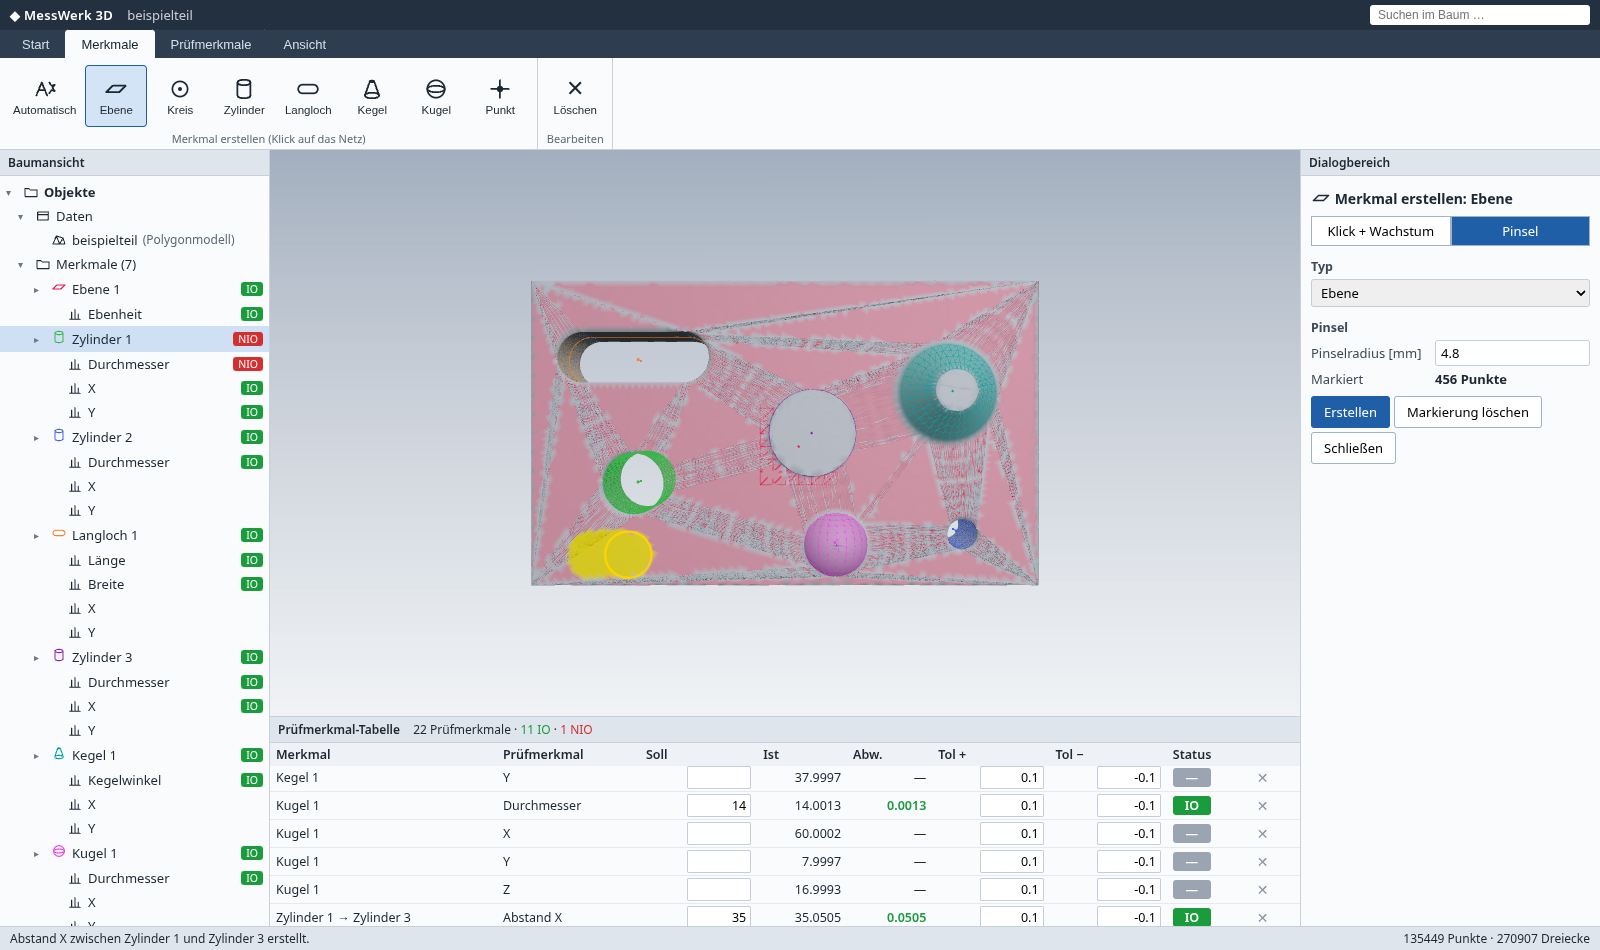
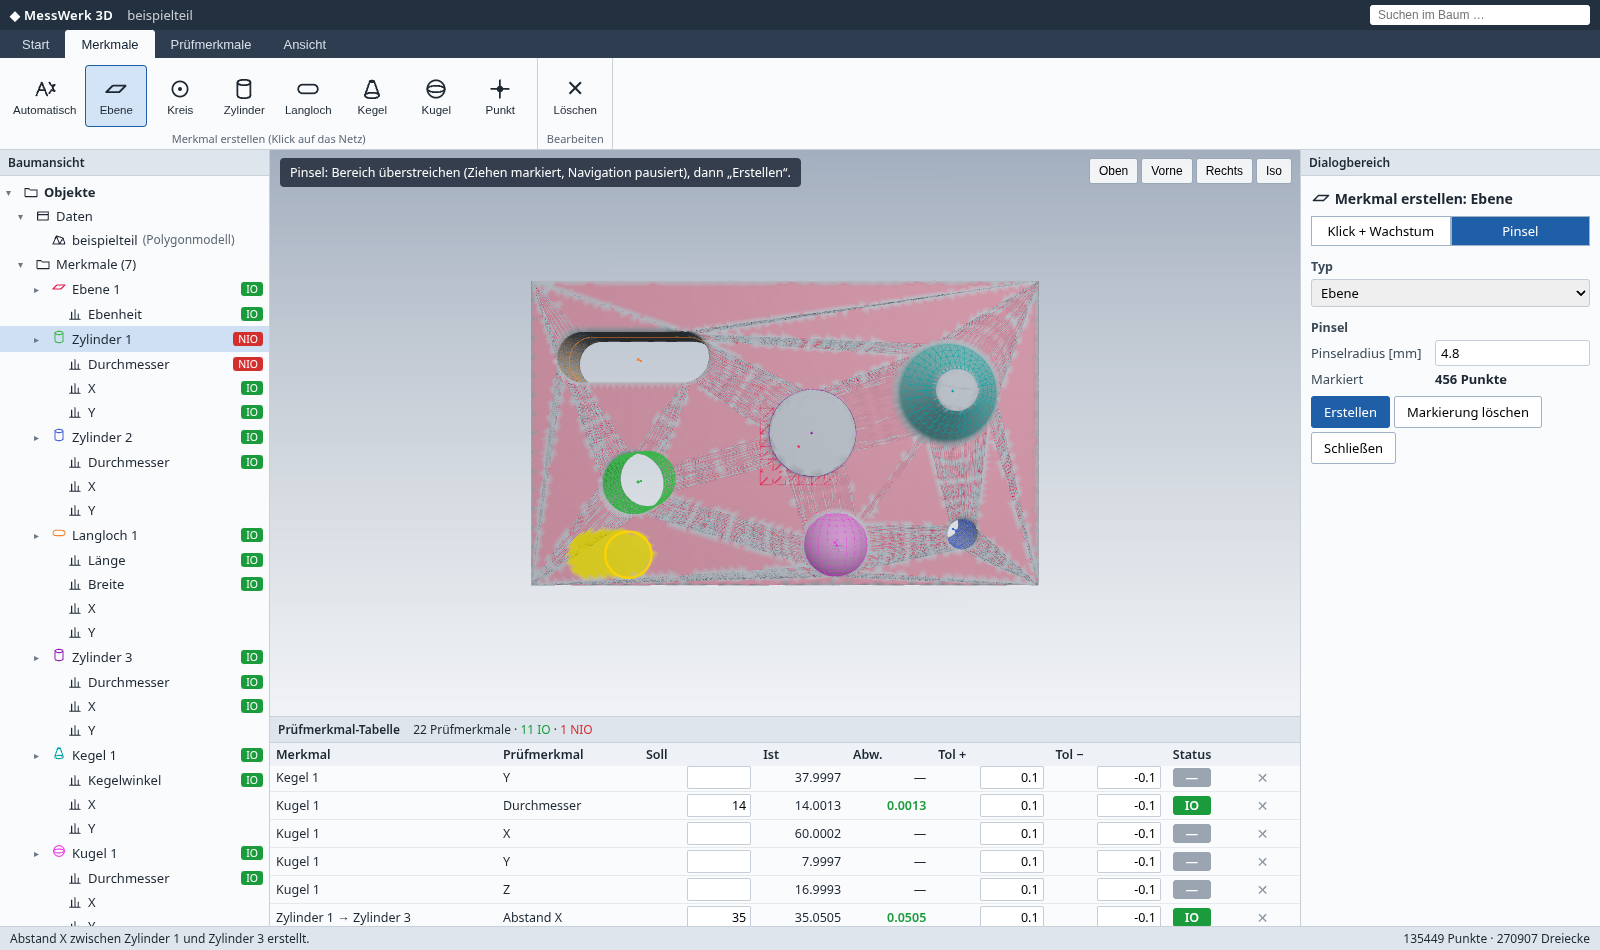
Mobil: 3D-Ansicht immer sichtbar, Bereiche als Overlays, kompaktes Ribbon, Ansicht passt im Hochformat, WebGL-Kontextverlust

Changed region(s): [[0.1562, 0.1526, 0.5, 0.2137], [0.6562, 0.1526, 0.8125, 0.2137]]

diff --git a/src/style.css b/src/style.css
@@ -1,6 +1,8 @@
 :root { --bg:#eef1f4; --pane:#fafbfc; --line:#c9d0d8; --acc:#1f5fa8; --acc2:#e8f0fb; --io:#1a9b3c; --nio:#d32f2f; font-family: "Segoe UI", system-ui, -apple-system, sans-serif; font-size: 13px; }
 * { box-sizing: border-box; }
 html, body { margin:0; height:100%; overflow:hidden; background:var(--bg); color:#1d2833; -webkit-user-select:none; user-select:none; }
+#mobile-bar { display:none; }
+.panel-close { display:none; }
 #app { display:grid; grid-template-rows: 30px 28px 92px 1fr 24px; height:100vh; height:100dvh; }
 #titlebar { display:flex; align-items:center; gap:14px; padding:0 10px; background:#22303f; color:#fff; }
 .logo { font-weight:600; letter-spacing:.3px; } #projname { opacity:.75; flex:1; }
@@ -64,3 +66,33 @@ td.dev.IO { color:var(--io); font-weight:600; } td.dev.NIO { color:var(--nio); f
 @media (max-width: 1100px) { #workspace { grid-template-columns: 220px minmax(0,1fr) 250px; } #search { display:none; } }
 @media (pointer: coarse) { .node { padding:7px 6px; } td input { width:70px; padding:5px; } .btn { padding:9px 14px; } }
 #dialog h3 svg, .st svg { width:20px; height:20px; vertical-align:-4px; } #dialog h3 span { display:inline-flex; }
+
+/* ---------- Telefon / kleine Displays: 3D-Ansicht hat Vorrang, Bereiche als Overlays ---------- */
+@media (max-width: 900px), (max-height: 560px) {
+  #app { grid-template-rows: 30px 50px minmax(0,1fr) 40px; }
+  #titlebar, #statusbar { display:none; }
+  #ribbon-tabs { overflow-x:auto; } .tab { padding:0 12px; white-space:nowrap; }
+  #ribbon { overflow-x:auto; overflow-y:hidden; -webkit-overflow-scrolling:touch; }
+  .group { padding:2px 4px 0; } .glabel { display:none; }
+  .big { min-width:48px; height:46px; font-size:10px; padding:1px 4px; gap:0; }
+  .big .ico { font-size:17px; height:20px; } .big svg { width:20px; height:20px; }
+  #workspace { display:block; position:relative; min-height:0; overflow:hidden; }
+  #center { display:block; position:absolute; inset:0; }
+  #scene { position:absolute; inset:0; }
+  #viewcube button { padding:7px 9px; }
+  #hint { max-width:calc(100% - 20px); top:auto; bottom:8px; font-size:12px; }
+  #tree-pane, #dialog-pane { position:absolute; top:0; bottom:0; width:min(86vw,340px); z-index:20;
+    box-shadow:0 0 18px rgba(0,0,0,.35); transition:transform .2s ease; }
+  #tree-pane { left:0; transform:translateX(-105%); }
+  #dialog-pane { right:0; transform:translateX(105%); }
+  body.show-tree #tree-pane, body.show-dialog #dialog-pane { transform:none; }
+  #table-pane { position:absolute; left:0; right:0; bottom:0; height:min(45%,320px); z-index:15;
+    box-shadow:0 -4px 16px rgba(0,0,0,.3); transform:translateY(105%); transition:transform .2s ease; }
+  body.show-table #table-pane { transform:none; }
+  .panel-close { display:inline-block; float:right; background:none; border:none; font-size:16px; line-height:14px; cursor:pointer; padding:0 4px; }
+  #mobile-bar { display:flex; background:#22303f; }
+  #mobile-bar button { flex:1; background:none; border:none; color:#e3e9f0; font-size:14px; touch-action:manipulation; }
+  #mobile-bar button.on { background:#3a4f66; color:#fff; }
+  td input { width:58px; }
+}
+#viewcube, #hint, #busy { z-index:5; }

diff --git a/src/viewer.ts b/src/viewer.ts
@@ -26,8 +26,10 @@ export class Viewer {
   center = new THREE.Vector3();
 
   constructor(public el: HTMLElement) {
-    this.renderer = new THREE.WebGLRenderer({ antialias: true, preserveDrawingBuffer: true });
-    this.renderer.setPixelRatio(Math.min(window.devicePixelRatio, 2));
+    const mobile = matchMedia('(pointer: coarse)').matches;
+    // Mobil: kein MSAA, Pixelverhältnis begrenzt (GPU-Speicher auf iPhone)
+    this.renderer = new THREE.WebGLRenderer({ antialias: !mobile, preserveDrawingBuffer: true, powerPreference: 'high-performance' });
+    this.renderer.setPixelRatio(Math.min(window.devicePixelRatio, mobile ? 2 : 2));
     el.appendChild(this.renderer.domElement);
     this.camera = new THREE.PerspectiveCamera(35, 1, 0.1, 10000);
     this.camera.up.set(0, 0, 1);
@@ -49,6 +51,12 @@ export class Viewer {
       new THREE.MeshBasicMaterial({ color: 0xffd400, side: THREE.DoubleSide, depthTest: false, transparent: true, opacity: 0.9 }));
     this.cursor.visible = false; this.cursor.renderOrder = 10; this.scene.add(this.cursor);
     new ResizeObserver(() => this.resize()).observe(el);
+    window.addEventListener('resize', () => this.resize());
+    window.addEventListener('orientationchange', () => setTimeout(() => this.resize(), 300));
+    // iOS kann den WebGL-Kontext bei Speicherdruck verwerfen: Wiederherstellung zulassen
+    const glc = this.renderer.domElement;
+    glc.addEventListener('webglcontextlost', (e) => { e.preventDefault(); console.warn('WebGL-Kontext verloren'); });
+    glc.addEventListener('webglcontextrestored', () => { this.resize(); });
     this.resize();
     const loop = () => { this.renderer.render(this.scene, this.camera); requestAnimationFrame(loop); };
     loop();
@@ -97,7 +105,8 @@ export class Viewer {
       case '+Z': d.set(0, 0, 1); break; case '-Z': d.set(0, 0, -1); break;
       case 'iso': d.set(1, -1.3, 1.1).normalize(); break; default: d.copy(cur);
     }
-    const dist = this.radius / Math.sin((this.camera.fov * Math.PI) / 360) * 0.9;
+    const vf = (this.camera.fov * Math.PI) / 180, hf = 2 * Math.atan(Math.tan(vf / 2) * this.camera.aspect);
+    const dist = (this.radius / Math.sin(Math.min(vf, hf) / 2)) * 0.9; // Hochformat: horizontaler Öffnungswinkel begrenzt
     this.camera.up.set(0, 0, 1);
     if (Math.abs(d.z) > 0.99) this.camera.up.set(0, 1, 0);
     this.controls.target.copy(this.center);

diff --git a/src/main.ts b/src/main.ts
@@ -231,6 +231,24 @@ window.addEventListener('keydown', (e) => {
 });
 
 // ------------------------------------------------------------------ Darstellung
+// ---------- Telefon: Bereiche als Overlays (Baum links, Dialog rechts, Tabelle unten) ----------
+const PANELS = ['tree', 'dialog', 'table'] as const;
+function togglePanel(p: (typeof PANELS)[number], on?: boolean) {
+  const show = on ?? !document.body.classList.contains('show-' + p);
+  if (show && p !== 'table') document.body.classList.remove('show-tree', 'show-dialog');
+  document.body.classList.toggle('show-' + p, show);
+  document.querySelectorAll<HTMLButtonElement>('#mobile-bar [data-panel]').forEach((b) =>
+    b.classList.toggle('on', document.body.classList.contains('show-' + b.dataset.panel)));
+}
+document.querySelectorAll<HTMLButtonElement>('#mobile-bar [data-panel]').forEach((b) => (b.onclick = () => togglePanel(b.dataset.panel as any)));
+for (const [id, p] of [['#tree-pane', 'tree'], ['#dialog-pane', 'dialog'], ['#table-pane', 'table']] as const) {
+  const t = document.querySelector(id + ' .pane-title')!;
+  const x = document.createElement('button'); x.className = 'panel-close'; x.textContent = '✕'; x.title = 'Schließen';
+  x.onclick = () => togglePanel(p, false); t.prepend(x);
+}
+// Tippen in die 3D-Szene schließt seitliche Overlays (Tabelle bleibt)
+canvas.addEventListener('pointerdown', () => document.body.classList.remove('show-tree', 'show-dialog'), true);
+
 function renderAll() { renderRibbon(); renderTree(); renderDialog(); renderTable(); renderScene(); renderHint(); }
 
 function renderRibbon() {
@@ -400,6 +418,7 @@ function renderTable() {
     tr.onclick = (e) => { if ((e.target as HTMLElement).tagName === 'INPUT') return; state.sel = [...c.featureIds]; state.selControl = c.id; renderTree(); renderDialog(); renderScene(); renderTable(); };
     tb.appendChild(tr);
   }
+  $('#mb-sum').textContent = state.controls.length ? `${io}/${nio}` : '';
   $('#summary').innerHTML = state.controls.length ? `${state.controls.length} Prüfmerkmale · <span style="color:var(--io)">${io} IO</span> · <span style="color:var(--nio)">${nio} NIO</span>` : '';
 }
 

diff --git a/index.html b/index.html
@@ -73,6 +73,9 @@
     </div>
     <aside id="dialog-pane"><div class="pane-title">Dialogbereich</div><div id="dialog"></div></aside>
   </main>
+  <nav id="mobile-bar">
+    <button data-panel="tree">☰ Baum</button><button data-panel="dialog">ⓘ Dialog</button><button data-panel="table">▤ Tabelle <span id="mb-sum"></span></button>
+  </nav>
   <footer id="statusbar"><span id="status">Bereit. Polygonmodell importieren oder „Beispiel laden“.</span><span id="stats"></span></footer>
 </div>
 <script type="module" src="./src/main.ts"></script>
